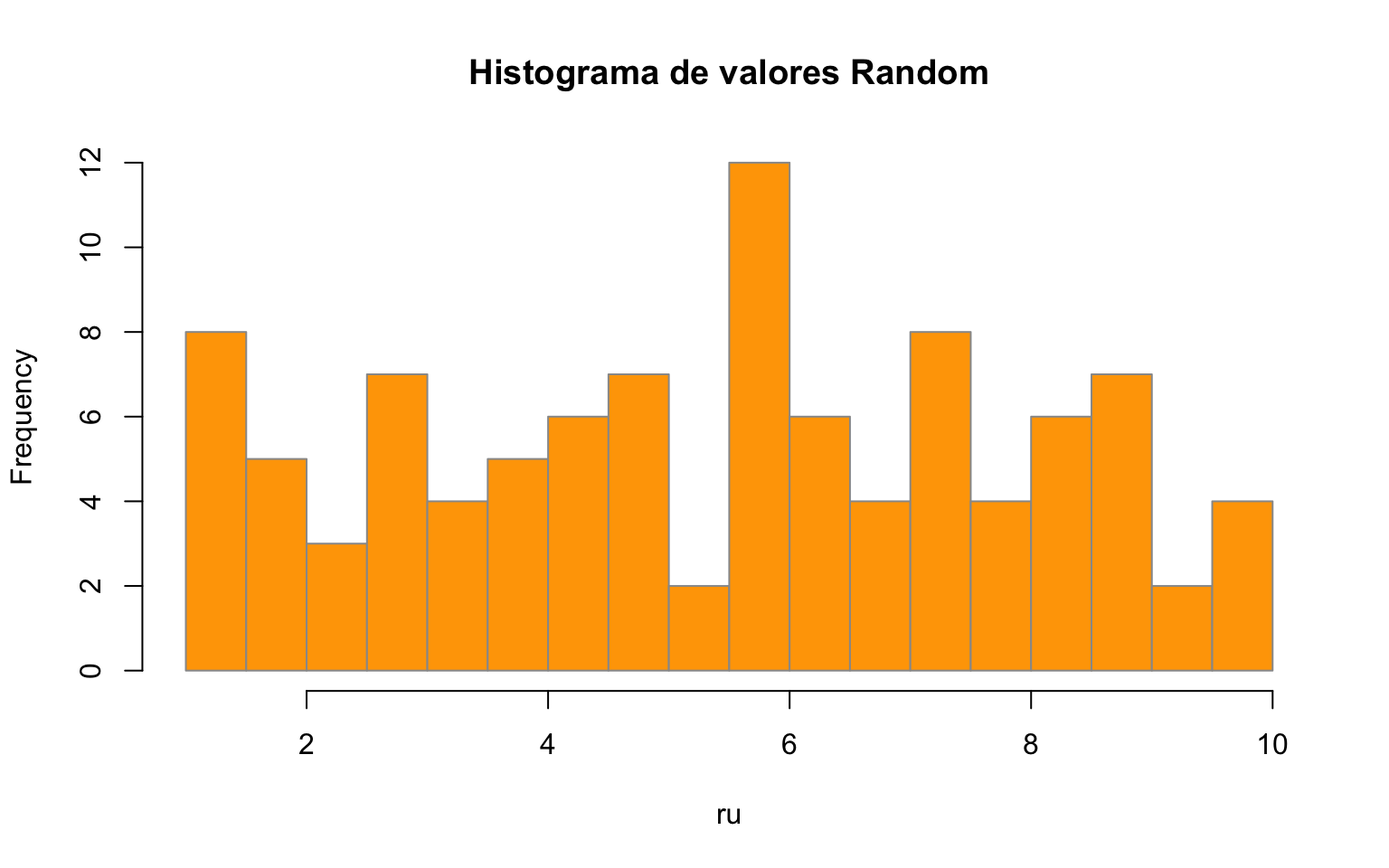
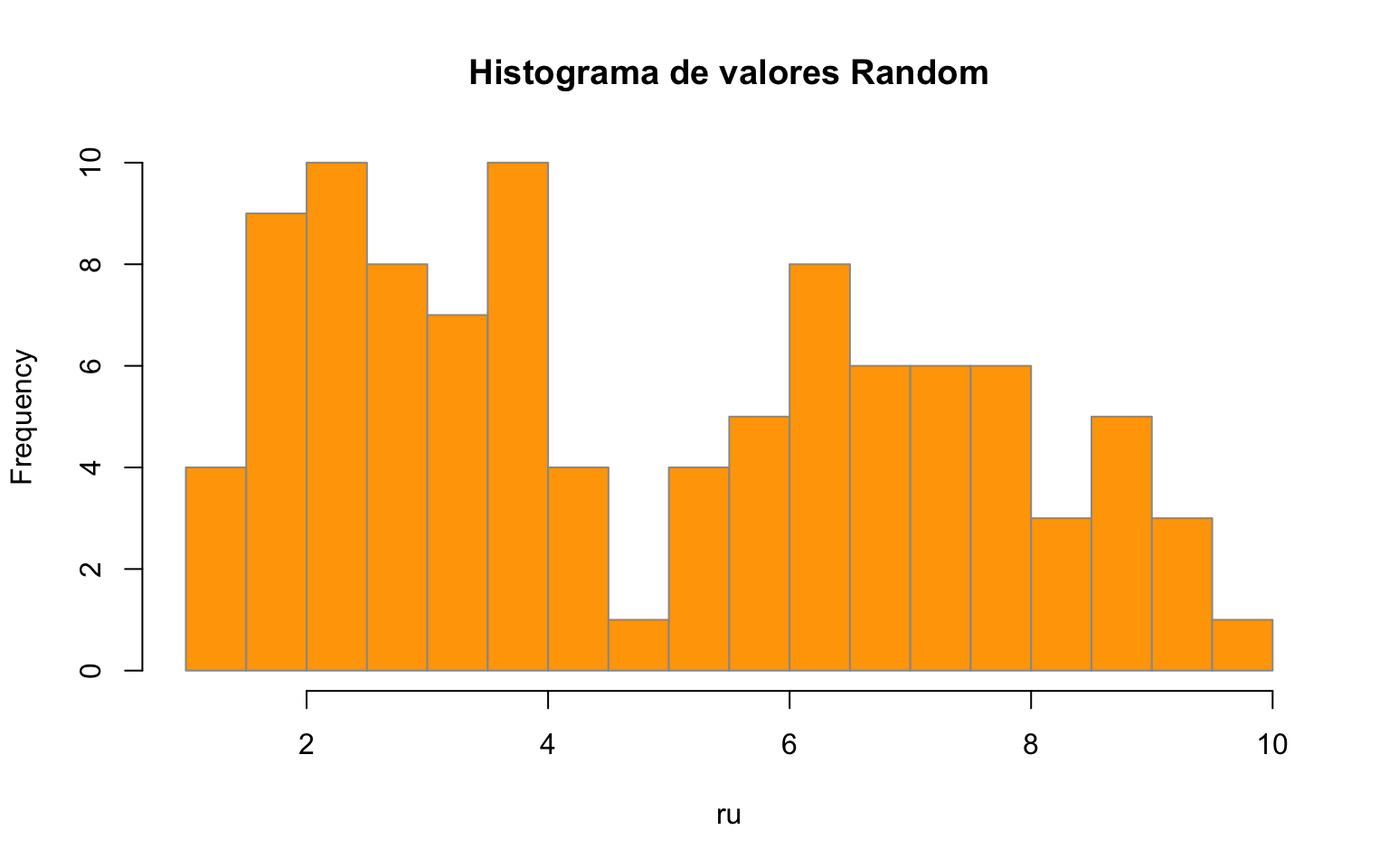
Built site for gh-pages

diff --git a/evo.html b/evo.html
@@ -96,11 +96,27 @@ pre > code.sourceCode > span > a:first-child::before { text-decoration: underlin
   }
 }</script>
 
+  <script>window.backupDefine = window.define; window.define = undefined;</script><script src="https://cdn.jsdelivr.net/npm/katex@0.15.1/dist/katex.min.js"></script>
+  <script>document.addEventListener("DOMContentLoaded", function () {
+ var mathElements = document.getElementsByClassName("math");
+ var macros = [];
+ for (var i = 0; i < mathElements.length; i++) {
+  var texText = mathElements[i].firstChild;
+  if (mathElements[i].tagName == "SPAN") {
+   katex.render(texText.data, mathElements[i], {
+    displayMode: mathElements[i].classList.contains('display'),
+    throwOnError: false,
+    macros: macros,
+    fleqn: false
+   });
+}}});
+  </script>
+  <script>window.define = window.backupDefine; window.backupDefine = undefined;</script><link rel="stylesheet" href="https://cdn.jsdelivr.net/npm/katex@0.15.1/dist/katex.min.css">
 
 <link rel="stylesheet" href="styles/style.css">
 </head>
 
-<body class="nav-sidebar floating">
+<body class="nav-sidebar floating slimcontent">
 
 <div id="quarto-search-results"></div>
   <header id="quarto-header" class="headroom fixed-top">
@@ -264,15 +280,16 @@ pre > code.sourceCode > span > a:first-child::before { text-decoration: underlin
   <li><a href="#periodos" id="toc-periodos" class="nav-link" data-scroll-target="#periodos"><span class="header-section-number">4.3.2</span> Periodos</a></li>
   <li><a href="#consolidación" id="toc-consolidación" class="nav-link" data-scroll-target="#consolidación"><span class="header-section-number">4.3.3</span> Consolidación</a></li>
   </ul></li>
-  <li><a href="#agregar-información-espacial" id="toc-agregar-información-espacial" class="nav-link" data-scroll-target="#agregar-información-espacial"><span class="header-section-number">4.4</span> Agregar Información Espacial</a>
+  <li><a href="#indicador-de-variación" id="toc-indicador-de-variación" class="nav-link" data-scroll-target="#indicador-de-variación"><span class="header-section-number">4.4</span> Indicador de Variación</a></li>
+  <li><a href="#agregar-información-espacial" id="toc-agregar-información-espacial" class="nav-link" data-scroll-target="#agregar-información-espacial"><span class="header-section-number">4.5</span> Agregar Información Espacial</a>
   <ul class="collapse">
-  <li><a href="#revisión-por-tipología" id="toc-revisión-por-tipología" class="nav-link" data-scroll-target="#revisión-por-tipología"><span class="header-section-number">4.4.1</span> Revisión por tipología</a></li>
+  <li><a href="#revisión-por-tipología" id="toc-revisión-por-tipología" class="nav-link" data-scroll-target="#revisión-por-tipología"><span class="header-section-number">4.5.1</span> Revisión por tipología</a></li>
   </ul></li>
   </ul>
 </nav>
     </div>
 <!-- main -->
-<main class="content" id="quarto-document-content">
+<main class="content page-columns page-full" id="quarto-document-content">
 
 <header id="title-block-header" class="quarto-title-block default">
 <div class="quarto-title">
@@ -294,10 +311,12 @@ pre > code.sourceCode > span > a:first-child::before { text-decoration: underlin
 
 <section id="introducción" class="level2" data-number="4.1">
 <h2 data-number="4.1" class="anchored" data-anchor-id="introducción"><span class="header-section-number">4.1</span> Introducción</h2>
-<p>La construcción del cálculo de indicadores territoriales de evolución criminal, normalizados por la diferencia entre periodos de tiempo para todas las comunas de Chile, es un tema fundamental en el análisis criminal. En este capítulo, exploraremos en detalle cómo se pueden calcular y utilizar estos indicadores para comprender la evolución de las tendencias criminales en el país. A lo largo del capítulo, examinaremos los métodos y herramientas utilizadas en este proceso, así como los desafíos y consideraciones clave al interpretar y analizar los resultados.</p>
+<p>Dentro del análisis criminológico espacial es fundamental conocer la evolución de los delitos en el tiempo. En esta sección, trabjará en la construcción y análisis de indicadores territoriales a nivel comunal de evolución criminal. El indicador para cumplir este propósito será uno que mida la variabilidad (positiva o negativa) normalizada de la cantidad delitos de las comunas en dos periodos de tiempo.</p>
+<p>Al comprender la evolución de los delitos en el tiempo, se busca tener una idea rápida y macro de la variabilidad de cada uno de los tipos de delitos en el país, como diagnóstico claro y preciso de la realidad en dos periodos de tiempo.</p>
 </section>
 <section id="delitos-base" class="level2" data-number="4.2">
 <h2 data-number="4.2" class="anchored" data-anchor-id="delitos-base"><span class="header-section-number">4.2</span> Delitos Base</h2>
+<p>Cargar la librerías y funciones de uso general</p>
 <div class="cell">
 <div class="sourceCode cell-code" id="cb1"><pre class="sourceCode r code-with-copy"><code class="sourceCode r"><span id="cb1-1"><a href="#cb1-1" aria-hidden="true" tabindex="-1"></a>knitr<span class="sc">::</span>opts_chunk<span class="sc">$</span><span class="fu">set</span>(<span class="at">echo =</span> <span class="cn">TRUE</span>, <span class="at">eval =</span> <span class="cn">FALSE</span>)</span>
 <span id="cb1-2"><a href="#cb1-2" aria-hidden="true" tabindex="-1"></a><span class="fu">options</span>(<span class="at">scipen =</span> <span class="dv">999</span>, <span class="at">warn=</span><span class="sc">-</span><span class="dv">1</span>)</span>
@@ -307,6 +326,8 @@ pre > code.sourceCode > span > a:first-child::before { text-decoration: underlin
 <span id="cb1-6"><a href="#cb1-6" aria-hidden="true" tabindex="-1"></a><span class="co"># Cargar Funciones</span></span>
 <span id="cb1-7"><a href="#cb1-7" aria-hidden="true" tabindex="-1"></a><span class="fu">source</span>(<span class="st">"R/funciones.R"</span>)</span></code><button title="Copy to Clipboard" class="code-copy-button"><i class="bi"></i></button></pre></div>
 </div>
+<p><strong>Lectura de Insumos</strong></p>
+<p>Para este resumen general utilizaremos los delitos dentro de la clsificación de Barrios Comerciales, entonces son urbanos. Puede ser con la base que ustedes estimen conveniente, pero debe tener la variable fecha.</p>
 <div class="cell">
 <div class="sourceCode cell-code" id="cb2"><pre class="sourceCode r code-with-copy"><code class="sourceCode r"><span id="cb2-1"><a href="#cb2-1" aria-hidden="true" tabindex="-1"></a>delitos_cat_bc_URB <span class="ot">&lt;-</span> <span class="fu">readRDS</span>(<span class="st">"data/delitos/delitos_eval_bcom_urb.rds"</span>)</span></code><button title="Copy to Clipboard" class="code-copy-button"><i class="bi"></i></button></pre></div>
 </div>
@@ -314,26 +335,38 @@ pre > code.sourceCode > span > a:first-child::before { text-decoration: underlin
 <div class="sourceCode cell-code" id="cb3"><pre class="sourceCode r code-with-copy"><code class="sourceCode r"><span id="cb3-1"><a href="#cb3-1" aria-hidden="true" tabindex="-1"></a>delitos_cat_bc_URB <span class="ot">&lt;-</span> <span class="fu">readRDS</span>(<span class="st">"data_samples/delitos_eval_bcom_urb.rds"</span>) <span class="sc">%&gt;%</span></span>
 <span id="cb3-2"><a href="#cb3-2" aria-hidden="true" tabindex="-1"></a>  <span class="fu">rename</span>(<span class="at">ZONA =</span> GEOCODIGO, <span class="at">TIPO =</span> Tipo )</span></code><button title="Copy to Clipboard" class="code-copy-button"><i class="bi"></i></button></pre></div>
 </div>
+<p><strong>Generación de Tablas Resumen por día</strong></p>
+<p>Seleccionamos la columnas que nos interesan y eliminamos la geometría.</p>
 <div class="cell">
 <div class="sourceCode cell-code" id="cb4"><pre class="sourceCode r code-with-copy"><code class="sourceCode r"><span id="cb4-1"><a href="#cb4-1" aria-hidden="true" tabindex="-1"></a>del_all <span class="ot">&lt;-</span> delitos_cat_bc_URB <span class="sc">%&gt;%</span> </span>
 <span id="cb4-2"><a href="#cb4-2" aria-hidden="true" tabindex="-1"></a>  <span class="fu">st_drop_geometry</span>() <span class="sc">%&gt;%</span> </span>
 <span id="cb4-3"><a href="#cb4-3" aria-hidden="true" tabindex="-1"></a>  <span class="fu">select</span>(COMUNA, <span class="at">tiempo =</span> FECHA_DEL,TIPO )</span></code><button title="Copy to Clipboard" class="code-copy-button"><i class="bi"></i></button></pre></div>
 </div>
+<p>Tabla de cuenta de delitos diarios por comuna y tipología</p>
 <div class="cell">
 <div class="sourceCode cell-code" id="cb5"><pre class="sourceCode r code-with-copy"><code class="sourceCode r"><span id="cb5-1"><a href="#cb5-1" aria-hidden="true" tabindex="-1"></a>delcomuna <span class="ot">&lt;-</span>  del_all <span class="sc">%&gt;%</span> </span>
 <span id="cb5-2"><a href="#cb5-2" aria-hidden="true" tabindex="-1"></a>  <span class="fu">group_by</span>(COMUNA, TIPO,  tiempo) <span class="sc">%&gt;%</span> </span>
-<span id="cb5-3"><a href="#cb5-3" aria-hidden="true" tabindex="-1"></a>  <span class="fu">summarise</span>(<span class="at">cantidad =</span> <span class="fu">n</span>())</span></code><button title="Copy to Clipboard" class="code-copy-button"><i class="bi"></i></button></pre></div>
+<span id="cb5-3"><a href="#cb5-3" aria-hidden="true" tabindex="-1"></a>  <span class="fu">summarise</span>(<span class="at">cantidad =</span> <span class="fu">n</span>(), <span class="at">.groups =</span> <span class="st">"keep"</span>)</span></code><button title="Copy to Clipboard" class="code-copy-button"><i class="bi"></i></button></pre></div>
 </div>
 </section>
-<section id="estadísticas" class="level2" data-number="4.3">
+<section id="estadísticas" class="level2 page-columns page-full" data-number="4.3">
 <h2 data-number="4.3" class="anchored" data-anchor-id="estadísticas"><span class="header-section-number">4.3</span> Estadísticas</h2>
-<section id="varianza" class="level3" data-number="4.3.1">
+<p>En esta etapa se realizarán la contabilidad de delitos por comunas y tipología, además se agregará el cálculo de una medida de dispersión como la varianza para aportar información. Queda abierta la posbilidad de agregar otras medidas estadísticas.</p>
+<section id="varianza" class="level3 page-columns page-full" data-number="4.3.1">
 <h3 data-number="4.3.1" class="anchored" data-anchor-id="varianza"><span class="header-section-number">4.3.1</span> Varianza</h3>
+<p>La varianza es una medida de dispersión que representa la variabilidad de una serie de datos respecto a su media, se denota como <span class="math inline">\sigma^2</span>.</p>
+<div class="quarto-figure quarto-figure-center page-columns page-full">
+<figure class="figure page-columns page-full">
+<p><img src="images/Comparison_standard_deviations.png" class="img-fluid figure-img" style="width:60.0%"></p>
+<figcaption class="figure-caption margin-caption">Ejemplo de muestras de dos poblaciones con la misma media pero varianzas diferentes. La población roja tiene media 100 y varianza 100 (DE=10) mientras que la población azul tiene media 100 y varianza 2500 (DE=50).</figcaption>
+</figure>
+</div>
+
 <div class="cell">
 <div class="sourceCode cell-code" id="cb6"><pre class="sourceCode r code-with-copy"><code class="sourceCode r"><span id="cb6-1"><a href="#cb6-1" aria-hidden="true" tabindex="-1"></a>varianzas <span class="ot">&lt;-</span> delcomuna <span class="sc">%&gt;%</span> </span>
 <span id="cb6-2"><a href="#cb6-2" aria-hidden="true" tabindex="-1"></a>  <span class="fu">filter</span>(<span class="sc">!</span><span class="fu">is.na</span>(TIPO)) <span class="sc">%&gt;%</span> </span>
 <span id="cb6-3"><a href="#cb6-3" aria-hidden="true" tabindex="-1"></a>  <span class="fu">group_by</span>(COMUNA, TIPO) <span class="sc">%&gt;%</span> </span>
-<span id="cb6-4"><a href="#cb6-4" aria-hidden="true" tabindex="-1"></a>  <span class="fu">summarise</span>(<span class="at">varianza =</span> <span class="fu">sd</span>(cantidad),</span>
+<span id="cb6-4"><a href="#cb6-4" aria-hidden="true" tabindex="-1"></a>  <span class="fu">summarise</span>(<span class="at">varianza =</span> <span class="fu">sd</span>(cantidad)<span class="sc">^</span><span class="dv">2</span>,</span>
 <span id="cb6-5"><a href="#cb6-5" aria-hidden="true" tabindex="-1"></a>            <span class="at">cantidad =</span> <span class="fu">n</span>(),  <span class="at">.groups =</span> <span class="st">"keep"</span>)</span>
 <span id="cb6-6"><a href="#cb6-6" aria-hidden="true" tabindex="-1"></a></span>
 <span id="cb6-7"><a href="#cb6-7" aria-hidden="true" tabindex="-1"></a><span class="fu">head</span>(varianzas)</span></code><button title="Copy to Clipboard" class="code-copy-button"><i class="bi"></i></button></pre></div>
@@ -342,18 +375,19 @@ pre > code.sourceCode > span > a:first-child::before { text-decoration: underlin
 # Groups:   COMUNA, TIPO [6]
   COMUNA TIPO     varianza cantidad
   &lt;chr&gt;  &lt;chr&gt;       &lt;dbl&gt;    &lt;int&gt;
-1 10101  Públicos    0.207       68
-2 10102  Públicos    0            4
-3 10105  Públicos    0            2
-4 10107  Públicos    0            5
-5 10109  Públicos    0            7
-6 10201  Públicos    0            8</code></pre>
+1 10101  Públicos   0.0428       68
+2 10102  Públicos   0             4
+3 10105  Públicos   0             2
+4 10107  Públicos   0             5
+5 10109  Públicos   0             7
+6 10201  Públicos   0             8</code></pre>
 </div>
 </div>
 </section>
 <section id="periodos" class="level3" data-number="4.3.2">
 <h3 data-number="4.3.2" class="anchored" data-anchor-id="periodos"><span class="header-section-number">4.3.2</span> Periodos</h3>
-<p><strong>Inicio</strong></p>
+<p>En esta etapa se van a definir los dos periodos que se compararán y así determinar la variabilidad. En este caso vamos analizar el segundo semestre del año 2017 versus el año 2022.</p>
+<p><strong>Periodo 1</strong></p>
 <div class="cell">
 <div class="sourceCode cell-code" id="cb8"><pre class="sourceCode r code-with-copy"><code class="sourceCode r"><span id="cb8-1"><a href="#cb8-1" aria-hidden="true" tabindex="-1"></a>p1_inicio <span class="ot">&lt;-</span> <span class="st">"2017-07-01"</span></span>
 <span id="cb8-2"><a href="#cb8-2" aria-hidden="true" tabindex="-1"></a>p2_inicio <span class="ot">&lt;-</span> <span class="st">"2017-12-31"</span></span>
@@ -363,7 +397,7 @@ pre > code.sourceCode > span > a:first-child::before { text-decoration: underlin
 <span id="cb8-6"><a href="#cb8-6" aria-hidden="true" tabindex="-1"></a>  <span class="fu">group_by</span>(COMUNA, TIPO) <span class="sc">%&gt;%</span> </span>
 <span id="cb8-7"><a href="#cb8-7" aria-hidden="true" tabindex="-1"></a>  <span class="fu">summarise</span>(<span class="at">inicio =</span> <span class="fu">n</span>(),  <span class="at">.groups =</span> <span class="st">"keep"</span>)</span></code><button title="Copy to Clipboard" class="code-copy-button"><i class="bi"></i></button></pre></div>
 </div>
-<p><strong>Fin</strong></p>
+<p><strong>Periodo 1</strong></p>
 <div class="cell">
 <div class="sourceCode cell-code" id="cb9"><pre class="sourceCode r code-with-copy"><code class="sourceCode r"><span id="cb9-1"><a href="#cb9-1" aria-hidden="true" tabindex="-1"></a>p1_fin <span class="ot">&lt;-</span> <span class="st">"2022-07-01"</span></span>
 <span id="cb9-2"><a href="#cb9-2" aria-hidden="true" tabindex="-1"></a>p2_fin <span class="ot">&lt;-</span> <span class="st">"2022-12-31"</span></span>
@@ -376,6 +410,7 @@ pre > code.sourceCode > span > a:first-child::before { text-decoration: underlin
 </section>
 <section id="consolidación" class="level3" data-number="4.3.3">
 <h3 data-number="4.3.3" class="anchored" data-anchor-id="consolidación"><span class="header-section-number">4.3.3</span> Consolidación</h3>
+<p>Finalmente se unen las tablas calculadas.</p>
 <div class="cell">
 <div class="sourceCode cell-code" id="cb10"><pre class="sourceCode r code-with-copy"><code class="sourceCode r"><span id="cb10-1"><a href="#cb10-1" aria-hidden="true" tabindex="-1"></a>adjvar <span class="ot">&lt;-</span> varianzas <span class="sc">%&gt;%</span> </span>
 <span id="cb10-2"><a href="#cb10-2" aria-hidden="true" tabindex="-1"></a>  <span class="fu">left_join</span>(ini, <span class="at">by =</span> <span class="fu">c</span>(<span class="st">"COMUNA"</span>, <span class="st">"TIPO"</span>)) <span class="sc">%&gt;%</span> </span>
@@ -383,11 +418,16 @@ pre > code.sourceCode > span > a:first-child::before { text-decoration: underlin
 <span id="cb10-4"><a href="#cb10-4" aria-hidden="true" tabindex="-1"></a>  <span class="fu">mutate_if</span>(<span class="at">.predicate =</span> is.numeric,</span>
 <span id="cb10-5"><a href="#cb10-5" aria-hidden="true" tabindex="-1"></a>            <span class="at">.funs =</span> <span class="cf">function</span>(x) <span class="fu">ifelse</span>(<span class="fu">is.na</span>(x), <span class="dv">0</span>, x))</span></code><button title="Copy to Clipboard" class="code-copy-button"><i class="bi"></i></button></pre></div>
 </div>
-<p>Indicador de Variación</p>
+</section>
+</section>
+<section id="indicador-de-variación" class="level2" data-number="4.4">
+<h2 data-number="4.4" class="anchored" data-anchor-id="indicador-de-variación"><span class="header-section-number">4.4</span> Indicador de Variación</h2>
+<p>En esta etapa se calcularà el indicador de la variación por cada tipo de delito y comuna. Corresponde a la diferencia entre los periodos (evolución) y se divide la suma de los dos períodos, para que el valor quede normalizado en valores entre 1 y -1.</p>
 <div class="cell">
 <div class="sourceCode cell-code" id="cb11"><pre class="sourceCode r code-with-copy"><code class="sourceCode r"><span id="cb11-1"><a href="#cb11-1" aria-hidden="true" tabindex="-1"></a>adjvar <span class="ot">&lt;-</span> adjvar <span class="sc">%&gt;%</span> </span>
 <span id="cb11-2"><a href="#cb11-2" aria-hidden="true" tabindex="-1"></a>  <span class="fu">mutate</span>(<span class="at">adjvar =</span> (fin<span class="sc">-</span>inicio)<span class="sc">/</span>(fin<span class="sc">+</span>inicio))</span></code><button title="Copy to Clipboard" class="code-copy-button"><i class="bi"></i></button></pre></div>
 </div>
+<p>Histograma de la Variabilidad.</p>
 <div class="cell">
 <div class="sourceCode cell-code" id="cb12"><pre class="sourceCode r code-with-copy"><code class="sourceCode r"><span id="cb12-1"><a href="#cb12-1" aria-hidden="true" tabindex="-1"></a><span class="fu">library</span>(hrbrthemes)</span>
 <span id="cb12-2"><a href="#cb12-2" aria-hidden="true" tabindex="-1"></a>p <span class="ot">&lt;-</span> adjvar <span class="sc">%&gt;%</span></span>
@@ -405,15 +445,17 @@ pre > code.sourceCode > span > a:first-child::before { text-decoration: underlin
 </div>
 </div>
 </section>
-</section>
-<section id="agregar-información-espacial" class="level2" data-number="4.4">
-<h2 data-number="4.4" class="anchored" data-anchor-id="agregar-información-espacial"><span class="header-section-number">4.4</span> Agregar Información Espacial</h2>
+<section id="agregar-información-espacial" class="level2" data-number="4.5">
+<h2 data-number="4.5" class="anchored" data-anchor-id="agregar-información-espacial"><span class="header-section-number">4.5</span> Agregar Información Espacial</h2>
+<p>Finalmente se agregará elos resultados del análisis a la la geometrías comunales de Chile para poder cartografias los resultados.</p>
+<p>Se de primeramente transformar las estructra de datos de formato largo a formato ancho, para que los valores de variabilidad de cada tipo de delito quede por columnas.</p>
 <div class="cell">
 <div class="sourceCode cell-code" id="cb13"><pre class="sourceCode r code-with-copy"><code class="sourceCode r"><span id="cb13-1"><a href="#cb13-1" aria-hidden="true" tabindex="-1"></a>varianzas <span class="ot">&lt;-</span> adjvar <span class="sc">%&gt;%</span> </span>
 <span id="cb13-2"><a href="#cb13-2" aria-hidden="true" tabindex="-1"></a>  <span class="fu">mutate</span>(<span class="at">TIPO =</span> <span class="fu">gsub</span>(<span class="at">pattern =</span> <span class="st">" "</span>, <span class="at">replacement =</span> <span class="st">"_"</span>, <span class="at">x =</span> TIPO)) <span class="sc">%&gt;%</span> </span>
 <span id="cb13-3"><a href="#cb13-3" aria-hidden="true" tabindex="-1"></a>  <span class="fu">pivot_wider</span>(<span class="at">names_from =</span> TIPO,</span>
 <span id="cb13-4"><a href="#cb13-4" aria-hidden="true" tabindex="-1"></a>              <span class="at">values_from =</span> <span class="fu">c</span>(varianza, cantidad, inicio, fin, adjvar))</span></code><button title="Copy to Clipboard" class="code-copy-button"><i class="bi"></i></button></pre></div>
 </div>
+<p>Agregar a lagesometrias comunales del INE.</p>
 <div class="cell">
 <div class="sourceCode cell-code" id="cb14"><pre class="sourceCode r code-with-copy"><code class="sourceCode r"><span id="cb14-1"><a href="#cb14-1" aria-hidden="true" tabindex="-1"></a>Comunas_Chile <span class="ot">&lt;-</span> <span class="fu">readRDS</span>(<span class="st">"data/ine/Comunas_Chile.rds"</span>)</span></code><button title="Copy to Clipboard" class="code-copy-button"><i class="bi"></i></button></pre></div>
 </div>
@@ -424,34 +466,38 @@ pre > code.sourceCode > span > a:first-child::before { text-decoration: underlin
 <span id="cb15-4"><a href="#cb15-4" aria-hidden="true" tabindex="-1"></a>  <span class="fu">mutate_if</span>(<span class="at">.predicate =</span> is.numeric,</span>
 <span id="cb15-5"><a href="#cb15-5" aria-hidden="true" tabindex="-1"></a>            <span class="at">.funs =</span> <span class="cf">function</span>(x) <span class="fu">ifelse</span>(<span class="fu">is.na</span>(x), <span class="dv">0</span>, x))</span></code><button title="Copy to Clipboard" class="code-copy-button"><i class="bi"></i></button></pre></div>
 </div>
+<p>Guardar Resultados en formato shapefiles</p>
 <div class="cell">
 <div class="sourceCode cell-code" id="cb16"><pre class="sourceCode r code-with-copy"><code class="sourceCode r"><span id="cb16-1"><a href="#cb16-1" aria-hidden="true" tabindex="-1"></a><span class="fu">st_write</span>(comdel_dif, <span class="st">"data/delitos/comdel_dif.shp"</span>)</span></code><button title="Copy to Clipboard" class="code-copy-button"><i class="bi"></i></button></pre></div>
 </div>
-<section id="revisión-por-tipología" class="level3" data-number="4.4.1">
-<h3 data-number="4.4.1" class="anchored" data-anchor-id="revisión-por-tipología"><span class="header-section-number">4.4.1</span> Revisión por tipología</h3>
+<section id="revisión-por-tipología" class="level3" data-number="4.5.1">
+<h3 data-number="4.5.1" class="anchored" data-anchor-id="revisión-por-tipología"><span class="header-section-number">4.5.1</span> Revisión por tipología</h3>
+<p><strong>Selección de Región y Tipo de Delitos</strong></p>
 <div class="cell">
 <div class="sourceCode cell-code" id="cb17"><pre class="sourceCode r code-with-copy"><code class="sourceCode r"><span id="cb17-1"><a href="#cb17-1" aria-hidden="true" tabindex="-1"></a><span class="co"># grep(pattern = "Secuestros", x = names(comdel_dif), value = T)</span></span>
 <span id="cb17-2"><a href="#cb17-2" aria-hidden="true" tabindex="-1"></a>tipo <span class="ot">=</span> <span class="st">"adjvar_Secuestros"</span></span>
 <span id="cb17-3"><a href="#cb17-3" aria-hidden="true" tabindex="-1"></a>region <span class="ot">=</span> <span class="st">"13"</span></span>
 <span id="cb17-4"><a href="#cb17-4" aria-hidden="true" tabindex="-1"></a></span>
 <span id="cb17-5"><a href="#cb17-5" aria-hidden="true" tabindex="-1"></a>r_eval <span class="ot">=</span> comdel_dif <span class="sc">%&gt;%</span> </span>
-<span id="cb17-6"><a href="#cb17-6" aria-hidden="true" tabindex="-1"></a>  <span class="fu">filter</span>(REGION <span class="sc">==</span> <span class="st">"13"</span>) </span>
-<span id="cb17-7"><a href="#cb17-7" aria-hidden="true" tabindex="-1"></a></span>
-<span id="cb17-8"><a href="#cb17-8" aria-hidden="true" tabindex="-1"></a></span>
-<span id="cb17-9"><a href="#cb17-9" aria-hidden="true" tabindex="-1"></a>p <span class="ot">&lt;-</span> r_eval <span class="sc">%&gt;%</span></span>
-<span id="cb17-10"><a href="#cb17-10" aria-hidden="true" tabindex="-1"></a>  <span class="fu">st_drop_geometry</span>() <span class="sc">%&gt;%</span> </span>
-<span id="cb17-11"><a href="#cb17-11" aria-hidden="true" tabindex="-1"></a>  <span class="fu">ggplot</span>( <span class="fu">aes_string</span>(<span class="at">x=</span>tipo)) <span class="sc">+</span></span>
-<span id="cb17-12"><a href="#cb17-12" aria-hidden="true" tabindex="-1"></a>    <span class="fu">geom_histogram</span>( <span class="at">binwidth=</span><span class="dv">1</span>,<span class="at">bins =</span> <span class="dv">3</span>, </span>
-<span id="cb17-13"><a href="#cb17-13" aria-hidden="true" tabindex="-1"></a>                    <span class="at">fill=</span><span class="st">"#69b3a2"</span>, <span class="at">color=</span><span class="st">"#e9ecef"</span>, <span class="at">alpha=</span><span class="fl">0.9</span>) <span class="sc">+</span></span>
-<span id="cb17-14"><a href="#cb17-14" aria-hidden="true" tabindex="-1"></a>    <span class="fu">ggtitle</span>(<span class="st">"Histograma de Variación Normalizada"</span>) <span class="sc">+</span></span>
-<span id="cb17-15"><a href="#cb17-15" aria-hidden="true" tabindex="-1"></a>    <span class="fu">theme_ipsum</span>() <span class="sc">+</span></span>
-<span id="cb17-16"><a href="#cb17-16" aria-hidden="true" tabindex="-1"></a>    <span class="fu">theme</span>(</span>
-<span id="cb17-17"><a href="#cb17-17" aria-hidden="true" tabindex="-1"></a>      <span class="at">plot.title =</span> <span class="fu">element_text</span>(<span class="at">size=</span><span class="dv">15</span>)</span>
-<span id="cb17-18"><a href="#cb17-18" aria-hidden="true" tabindex="-1"></a>    )</span>
-<span id="cb17-19"><a href="#cb17-19" aria-hidden="true" tabindex="-1"></a>p</span></code><button title="Copy to Clipboard" class="code-copy-button"><i class="bi"></i></button></pre></div>
+<span id="cb17-6"><a href="#cb17-6" aria-hidden="true" tabindex="-1"></a>  <span class="fu">filter</span>(REGION <span class="sc">==</span> <span class="st">"13"</span>)</span></code><button title="Copy to Clipboard" class="code-copy-button"><i class="bi"></i></button></pre></div>
 </div>
+<p><strong>Histograma</strong></p>
 <div class="cell">
-<div class="sourceCode cell-code" id="cb18"><pre class="sourceCode r code-with-copy"><code class="sourceCode r"><span id="cb18-1"><a href="#cb18-1" aria-hidden="true" tabindex="-1"></a><span class="fu">mapview</span>(r_eval, <span class="at">zcol =</span> <span class="st">"adjvar_Secuestros"</span>)</span></code><button title="Copy to Clipboard" class="code-copy-button"><i class="bi"></i></button></pre></div>
+<div class="sourceCode cell-code" id="cb18"><pre class="sourceCode r code-with-copy"><code class="sourceCode r"><span id="cb18-1"><a href="#cb18-1" aria-hidden="true" tabindex="-1"></a>p <span class="ot">&lt;-</span> r_eval <span class="sc">%&gt;%</span></span>
+<span id="cb18-2"><a href="#cb18-2" aria-hidden="true" tabindex="-1"></a>  <span class="fu">st_drop_geometry</span>() <span class="sc">%&gt;%</span> </span>
+<span id="cb18-3"><a href="#cb18-3" aria-hidden="true" tabindex="-1"></a>  <span class="fu">ggplot</span>( <span class="fu">aes_string</span>(<span class="at">x=</span>tipo)) <span class="sc">+</span></span>
+<span id="cb18-4"><a href="#cb18-4" aria-hidden="true" tabindex="-1"></a>    <span class="fu">geom_histogram</span>( <span class="at">binwidth=</span><span class="dv">1</span>,<span class="at">bins =</span> <span class="dv">3</span>, </span>
+<span id="cb18-5"><a href="#cb18-5" aria-hidden="true" tabindex="-1"></a>                    <span class="at">fill=</span><span class="st">"#69b3a2"</span>, <span class="at">color=</span><span class="st">"#e9ecef"</span>, <span class="at">alpha=</span><span class="fl">0.9</span>) <span class="sc">+</span></span>
+<span id="cb18-6"><a href="#cb18-6" aria-hidden="true" tabindex="-1"></a>    <span class="fu">ggtitle</span>(<span class="st">"Histograma de Variación Normalizada"</span>) <span class="sc">+</span></span>
+<span id="cb18-7"><a href="#cb18-7" aria-hidden="true" tabindex="-1"></a>    <span class="fu">theme_ipsum</span>() <span class="sc">+</span></span>
+<span id="cb18-8"><a href="#cb18-8" aria-hidden="true" tabindex="-1"></a>    <span class="fu">theme</span>(</span>
+<span id="cb18-9"><a href="#cb18-9" aria-hidden="true" tabindex="-1"></a>      <span class="at">plot.title =</span> <span class="fu">element_text</span>(<span class="at">size=</span><span class="dv">15</span>)</span>
+<span id="cb18-10"><a href="#cb18-10" aria-hidden="true" tabindex="-1"></a>    )</span>
+<span id="cb18-11"><a href="#cb18-11" aria-hidden="true" tabindex="-1"></a>p</span></code><button title="Copy to Clipboard" class="code-copy-button"><i class="bi"></i></button></pre></div>
+</div>
+<p><strong>Visualización Espacial</strong></p>
+<div class="cell">
+<div class="sourceCode cell-code" id="cb19"><pre class="sourceCode r code-with-copy"><code class="sourceCode r"><span id="cb19-1"><a href="#cb19-1" aria-hidden="true" tabindex="-1"></a><span class="fu">mapview</span>(r_eval, <span class="at">zcol =</span> <span class="st">"adjvar_Secuestros"</span>)</span></code><button title="Copy to Clipboard" class="code-copy-button"><i class="bi"></i></button></pre></div>
 </div>
 <center>
 <img src="images/secuestros_var.png" class="img-fluid" style="width:90.0%">

diff --git a/variables.html b/variables.html
@@ -346,19 +346,19 @@ pre > code.sourceCode > span > a:first-child::before { text-decoration: underlin
 <div class="sourceCode cell-code" id="cb7"><pre class="sourceCode r code-with-copy"><code class="sourceCode r"><span id="cb7-1"><a href="#cb7-1" aria-hidden="true" tabindex="-1"></a>ru <span class="ot">&lt;-</span> <span class="fu">runif</span>(<span class="at">n =</span> <span class="dv">100</span>, <span class="at">min =</span> <span class="dv">1</span>, <span class="at">max =</span> <span class="dv">10</span>)</span>
 <span id="cb7-2"><a href="#cb7-2" aria-hidden="true" tabindex="-1"></a>ru</span></code><button title="Copy to Clipboard" class="code-copy-button"><i class="bi"></i></button></pre></div>
 <div class="cell-output cell-output-stdout">
-<pre><code>  [1] 1.419618 3.608844 4.338653 4.926736 1.034921 6.140184 3.596651 5.677071
-  [9] 7.493194 1.460115 8.040923 5.813330 5.595313 5.631413 5.908611 9.016173
- [17] 8.650090 6.248352 5.811771 2.781347 6.868629 3.183927 6.120943 1.082599
- [25] 3.219452 7.475922 3.780136 2.725097 9.282074 8.270180 7.206283 2.638028
- [33] 5.770942 8.741217 1.320611 4.827593 8.273632 5.164934 9.773305 4.830424
- [41] 8.210169 5.662504 6.074645 2.634682 1.588581 2.467157 8.811633 7.133935
- [49] 4.823348 1.772915 8.036451 7.534358 5.074873 5.879084 3.089759 7.080254
- [57] 9.970026 6.745127 4.417358 4.852850 6.104330 7.475100 4.236955 4.029352
- [65] 3.501148 4.864262 6.690833 1.692480 1.517600 7.404357 6.915126 8.669958
- [73] 5.744839 4.376615 8.985001 9.803518 8.041852 7.962854 3.642296 9.890919
- [81] 8.814538 5.900124 3.161635 1.484258 4.070274 7.169833 2.411936 1.178272
- [89] 4.911398 6.488026 1.497783 5.853889 7.508005 2.623348 2.860270 2.928817
- [97] 1.712759 8.707128 7.922228 2.440692</code></pre>
+<pre><code>  [1] 1.986482 1.760792 9.094716 2.116073 7.797807 1.694094 7.008935 7.744442
+  [9] 5.928036 3.210483 7.707313 4.543355 2.624929 1.572833 1.720065 6.090697
+ [17] 6.776073 3.072972 5.571945 3.544205 2.868307 3.858099 9.864765 6.583790
+ [25] 8.692564 8.313391 7.410694 3.749327 8.845243 6.784552 2.701635 6.493341
+ [33] 9.056648 2.475996 6.517585 6.599865 6.105104 1.215108 1.049958 2.980689
+ [41] 2.457111 3.758652 5.603817 4.081842 3.945143 7.939346 2.059364 1.430102
+ [49] 6.212076 3.017109 2.106895 7.010768 3.259860 5.742418 6.409909 7.764117
+ [57] 6.628099 2.637411 3.621545 1.040100 2.046645 2.912880 7.929911 5.772818
+ [65] 3.283666 3.554310 6.379396 2.051828 2.421725 9.414500 5.424643 8.445518
+ [73] 2.458282 2.793772 7.158277 3.971862 7.412456 8.270493 8.833544 4.333104
+ [81] 4.314983 1.805615 7.468261 1.580027 2.932716 5.031501 3.796026 1.604622
+ [89] 3.206299 8.723471 6.047237 4.290123 6.244790 1.849280 2.375608 8.704393
+ [97] 3.513809 5.198461 5.174195 3.316951</code></pre>
 </div>
 </div>
 <div class="cell" data-layout-align="center">
@@ -377,7 +377,7 @@ pre > code.sourceCode > span > a:first-child::before { text-decoration: underlin
 <div class="cell">
 <div class="sourceCode cell-code" id="cb10"><pre class="sourceCode r code-with-copy"><code class="sourceCode r"><span id="cb10-1"><a href="#cb10-1" aria-hidden="true" tabindex="-1"></a><span class="fu">sample.int</span>(<span class="at">n =</span> <span class="dv">6</span>, <span class="at">size =</span> <span class="dv">10</span>, <span class="at">replace =</span> T)</span></code><button title="Copy to Clipboard" class="code-copy-button"><i class="bi"></i></button></pre></div>
 <div class="cell-output cell-output-stdout">
-<pre><code> [1] 2 2 1 2 6 4 3 2 5 3</code></pre>
+<pre><code> [1] 5 3 3 1 5 2 5 2 6 1</code></pre>
 </div>
 </div>
 </section>

diff --git a/control_r.html b/control_r.html
@@ -433,10 +433,10 @@ pre > code.sourceCode > span > a:first-child::before { text-decoration: underlin
 <span id="cb17-6"><a href="#cb17-6" aria-hidden="true" tabindex="-1"></a>  <span class="fu">print</span>(promedio)</span>
 <span id="cb17-7"><a href="#cb17-7" aria-hidden="true" tabindex="-1"></a>}</span></code><button title="Copy to Clipboard" class="code-copy-button"><i class="bi"></i></button></pre></div>
 <div class="cell-output cell-output-stdout">
-<pre><code>[1] 0.1365486
-[1] -0.3521543
-[1] -0.5884956
-[1] -0.1156964</code></pre>
+<pre><code>[1] 0.2897938
+[1] -0.03505119
+[1] -0.752153
+[1] 0.2633822</code></pre>
 </div>
 </div>
 </section>
